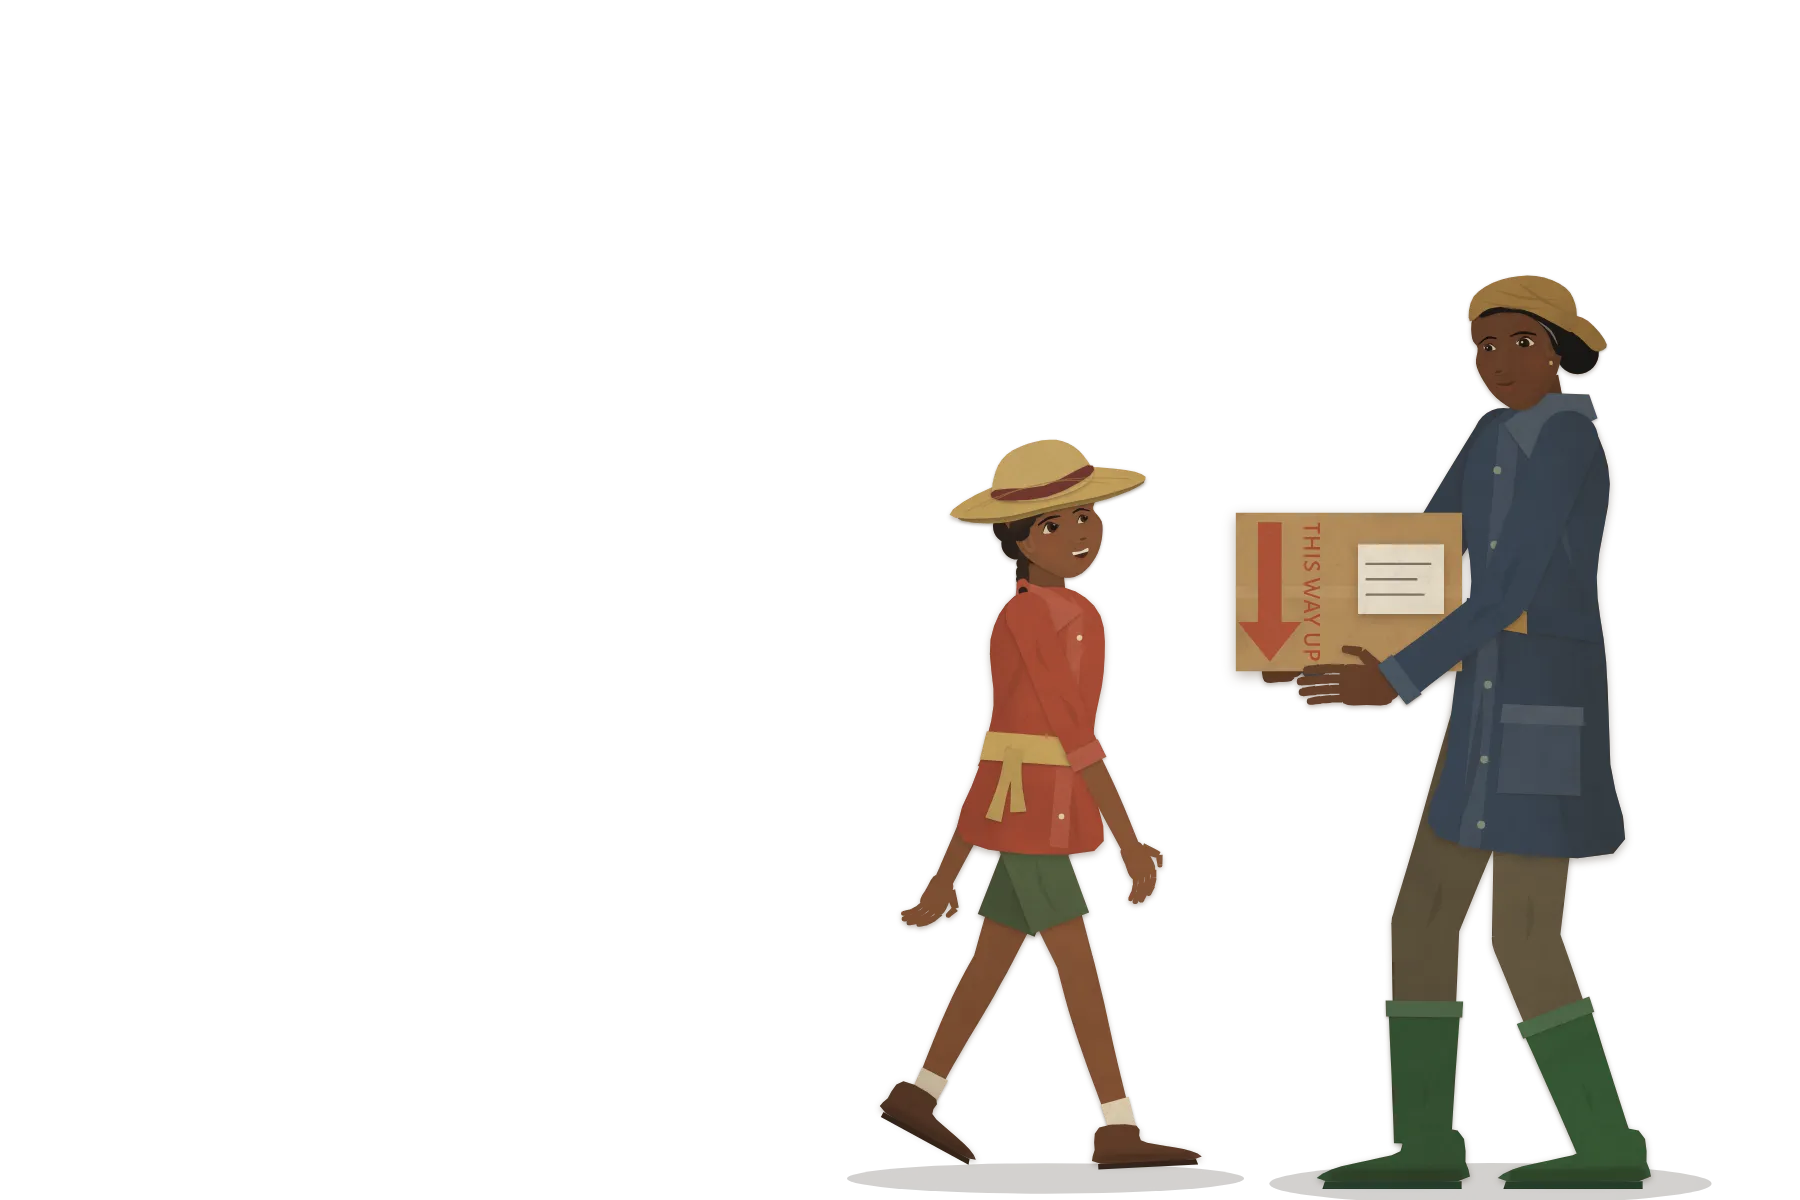
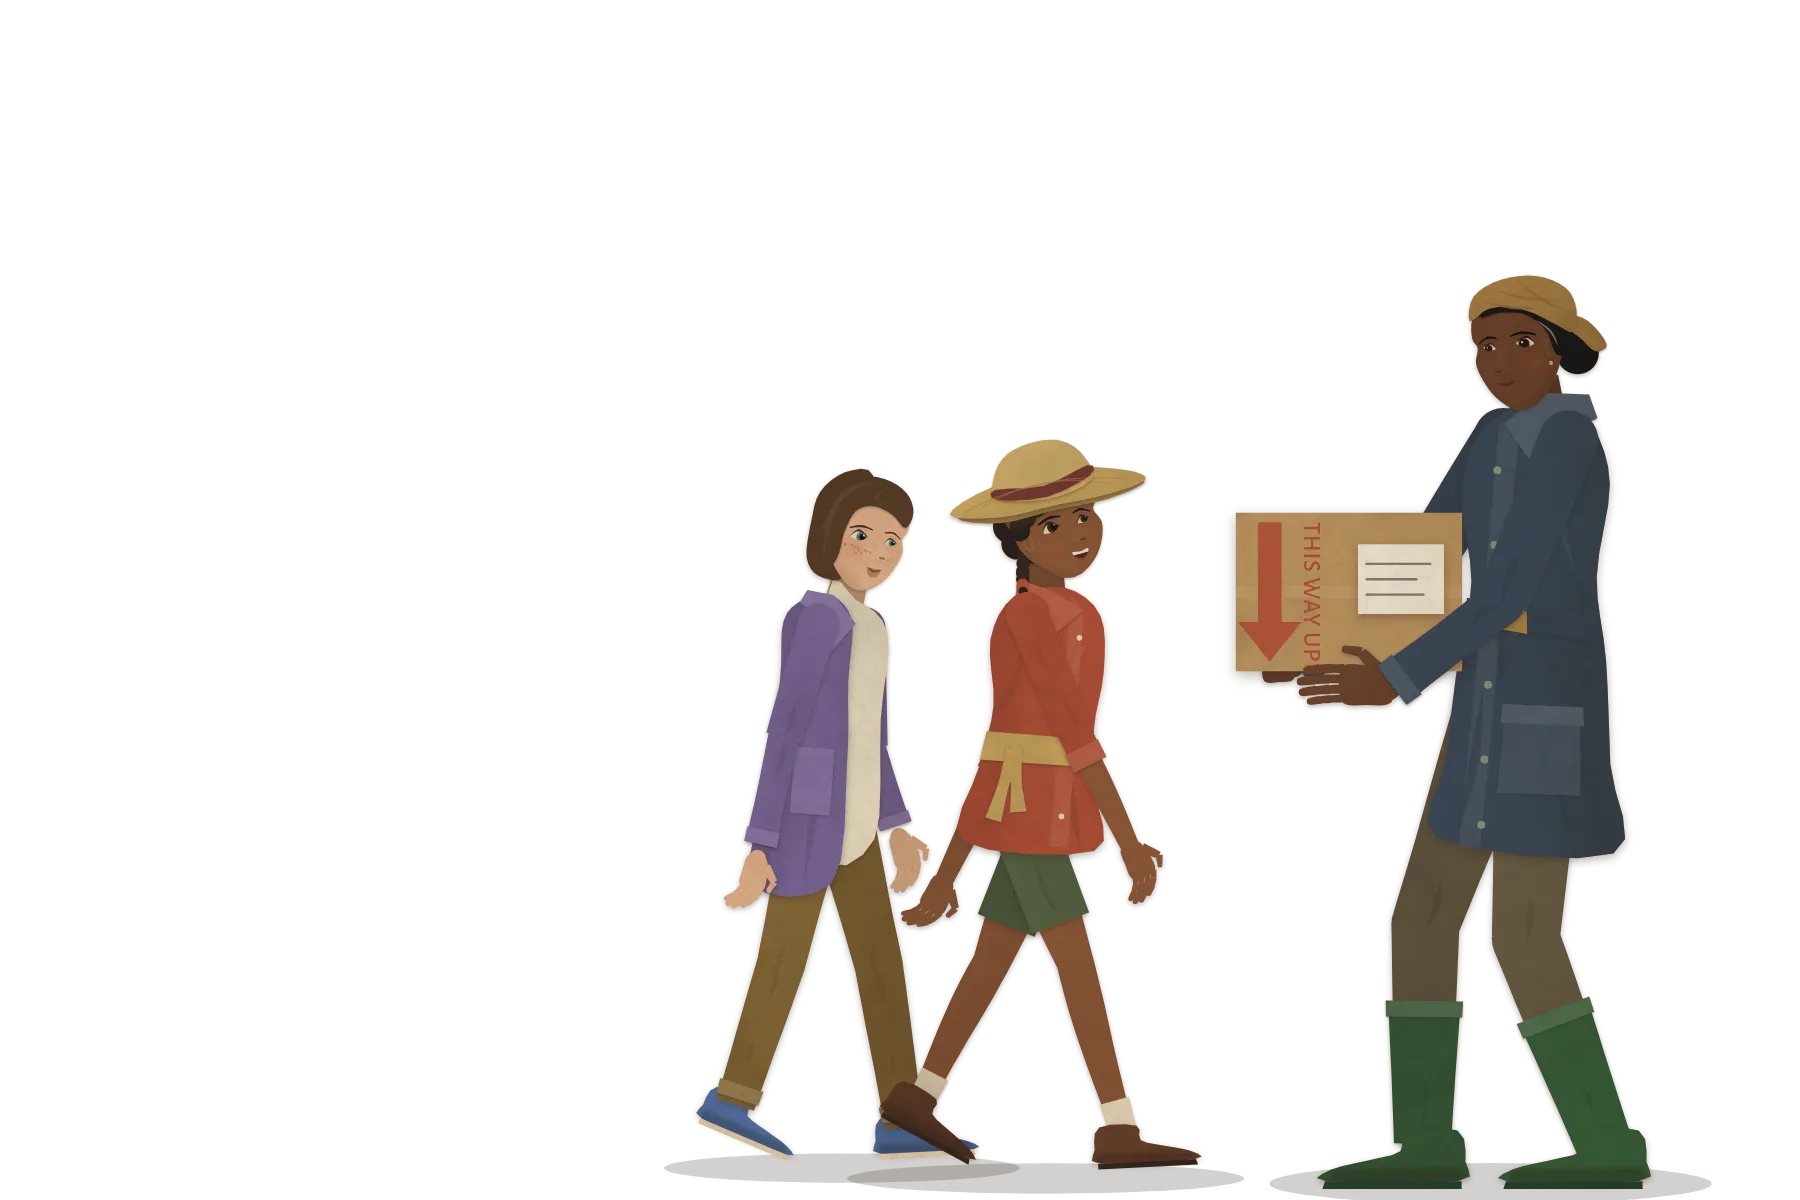
Story book chapter 1: Tam joins (#35)
Craig's call 2026-11-11: Tam is in chapter 1. She walks in with Wren
(spread 1), counts the first CLONK (spread 6, so the refrain "That's
one" is hers), and stands half hidden behind Wren when Nod says
"Three" (spread 8): "Tam had said it first." Wren's log adds "Told:
Tam said three. Two and one is three." This plants her arc in the
outline, from unheard to heard.

Pictures for spreads 1, 6 and 8 re-rendered with Tam from the shared
figure kit; the other seven spreads are unchanged. Alt text names her.
All ten predeploy gates pass.

Claude-Session: https://claude.ai/code/session_01LkzLwb6XNBDGeRifrsfcpW

Changed region(s): [[0.3733, 0.37, 0.56, 0.9867]]

diff --git a/public/stories/the-duck-who-stayed/3d/index.html b/public/stories/the-duck-who-stayed/3d/index.html
@@ -33,11 +33,12 @@
 <article class="pb-spread lesson" id="lesson-1" data-art="/stories/the-duck-who-stayed/art/spreads/s01" data-sheets="[{&quot;name&quot;:&quot;table&quot;,&quot;foot&quot;:0.939,&quot;rise&quot;:11},{&quot;name&quot;:&quot;people&quot;,&quot;foot&quot;:1.0,&quot;rise&quot;:16}]">
 <h2 class="pb-title">The box</h2>
 <div class="pb-canvas lesson-page">
-<img class="pb-art" src="/stories/the-duck-who-stayed/art/spreads/s01.webp" alt="A farmhouse kitchen. Aunt Mo walks in at the back door, carrying a cardboard box with a large red arrow on it pointing at the floor. Wren in her straw hat trots alongside with her nose level with the label. On the table at the left, beside a bowl of apples, sits Nod, a pale robot with one head, two thin antennas, no hands and no wheels, its head tipped toward the box." width="1800" height="1200" decoding="async" loading="lazy">
+<img class="pb-art" src="/stories/the-duck-who-stayed/art/spreads/s01.webp" alt="A farmhouse kitchen. Aunt Mo walks in at the back door, carrying a cardboard box with a large red arrow on it pointing at the floor. Wren in her straw hat trots alongside with her nose level with the label, and her friend Tam, in a plum shirt, walks a step behind her. On the table at the left, beside a bowl of apples, sits Nod, a pale robot with one head, two thin antennas, no hands and no wheels, its head tipped toward the box." width="1800" height="1200" decoding="async" loading="lazy">
 <div class="pb-words">
 <div class="pb-z pb-tight" style="--x:4;--y:4;--w:42"><p>On the last hot day of summer, the truck came home with a box.</p><p>A box! With a name on it!</p><p>The name was not Wren. It was Aunt Mo. Wren felt this was a mistake.</p></div>
+<div class="pb-z" style="--x:52;--y:6;--w:15"><p>Tam from the next farm came too. Tam counted things.</p></div>
 <div class="pb-z" style="--x:4;--y:32;--w:24"><p>Nod was the robot on the table: one head, two antennas, no hands. It nodded at everything.</p></div>
-<div class="pb-z" style="--x:38.5;--y:31;--w:10.5"><p>“That box,” said Nod, “is a ham.”</p></div>
+<div class="pb-z" style="--x:36.5;--y:27;--w:10.5"><p>“That box,” said Nod, “is a ham.”</p></div>
 </div>
 </div>
 </article>
@@ -108,11 +109,11 @@
 <article class="pb-spread lesson" id="lesson-6" data-art="/stories/the-duck-who-stayed/art/spreads/s06" data-sheets="[{&quot;name&quot;:&quot;table&quot;,&quot;foot&quot;:0.963,&quot;rise&quot;:11},{&quot;name&quot;:&quot;letters&quot;,&quot;foot&quot;:0.576,&quot;rise&quot;:6},{&quot;name&quot;:&quot;chair&quot;,&quot;foot&quot;:0.986,&quot;rise&quot;:16},{&quot;name&quot;:&quot;near&quot;,&quot;foot&quot;:1.0,&quot;rise&quot;:8}]">
 <h2 class="pb-title">CLONK</h2>
 <div class="pb-canvas lesson-page">
-<img class="pb-art" src="/stories/the-duck-who-stayed/art/spreads/s06.webp" alt="Close and enormous. The word CLONK is cut from red paper letters, the biggest thing in the book, filling the left page. A chair leg stands in the middle of the right page and Pip lies at its foot, legs in the air, with bits of paper flying up. Wren&#x27;s hands are at her mouth at the left edge, and Aunt Mo&#x27;s raised finger comes in from the top. Nod&#x27;s two antennas show over the table&#x27;s edge at the top left." width="1800" height="1200" decoding="async" loading="lazy">
+<img class="pb-art" src="/stories/the-duck-who-stayed/art/spreads/s06.webp" alt="Close and enormous. The word CLONK is cut from red paper letters, the biggest thing in the book, filling the left page. A chair leg stands in the middle of the right page and Pip lies at its foot, legs in the air, with bits of paper flying up. Wren&#x27;s hands are at her mouth at the left edge, Tam watches from the right edge with her hands together, and Aunt Mo&#x27;s raised finger comes in from the top. Nod&#x27;s two antennas show over the table&#x27;s edge at the top left." width="1800" height="1200" decoding="async" loading="lazy">
 <div class="pb-words">
 <p class="pb-said">CLONK!</p>
 <div class="pb-z pb-tight" style="--x:21.5;--y:56;--w:27"><p>Over went Pip, flat on its side, with both legs still going.</p><p>Up on the table, Nod could not see the floor. It nodded anyway.</p></div>
-<div class="pb-z pb-chant" style="--x:3;--y:17;--w:20"><p>“That’s one.”</p></div>
+<div class="pb-z pb-chant" style="--x:3;--y:17;--w:20"><p>“That’s one,” said Tam.</p></div>
 <div class="pb-z pb-tight" style="--x:21.5;--y:83;--w:27"><p>“It’s broken!” said Wren.</p><p>Aunt Mo held up one finger.</p></div>
 <div class="pb-z pb-chant" style="--x:84.5;--y:41;--w:12"><p>“Wait.”</p></div>
 </div>
@@ -153,7 +154,7 @@
 <article class="pb-spread lesson" id="lesson-8" data-art="/stories/the-duck-who-stayed/art/spreads/s08" data-sheets="[{&quot;name&quot;:&quot;table&quot;,&quot;foot&quot;:0.91,&quot;rise&quot;:11},{&quot;name&quot;:&quot;people&quot;,&quot;foot&quot;:0.979,&quot;rise&quot;:16},{&quot;name&quot;:&quot;letters&quot;,&quot;foot&quot;:0.95,&quot;rise&quot;:6}]">
 <h2 class="pb-title">We can know that</h2>
 <div class="pb-canvas lesson-page">
-<img class="pb-art" src="/stories/the-duck-who-stayed/art/spreads/s08.webp" alt="Wren and Aunt Mo face each other. Pip is tucked under Aunt Mo&#x27;s arm with its legs out, and she holds the manual open with a thumb. Wren points toward the chair, which stands alone on the right, in nobody&#x27;s way. Nod on the table between them has its chin down. Wheeeeak! climbs in a curve from the floor up to Pip." width="1800" height="1200" decoding="async" loading="lazy">
+<img class="pb-art" src="/stories/the-duck-who-stayed/art/spreads/s08.webp" alt="Wren and Aunt Mo face each other. Tam stands just behind Wren at the left edge, her mouth open, half hidden. Pip is tucked under Aunt Mo&#x27;s arm with its legs out, and she holds the manual open with a thumb. Wren points toward the chair, which stands alone on the right, in nobody&#x27;s way. Nod on the table between them has its chin down. Wheeeeak! climbs in a curve from the floor up to Pip." width="1800" height="1200" decoding="async" loading="lazy">
 <div class="pb-words">
 <div class="pb-z" style="--x:3;--y:3;--w:24"><p>Aunt Mo scooped up Pip.</p></div>
 <p class="pb-said">Wheeeeak!</p>
@@ -163,7 +164,8 @@
 <div class="pb-z" style="--x:68;--y:13.5;--w:30"><p>Page twelve of the manual said: Pip does not look. Pip just goes.</p></div>
 <div class="pb-z" style="--x:52;--y:26;--w:14.5"><p>“It went CLONK three times!”</p></div>
 <div class="pb-z" style="--x:69;--y:29;--w:28"><p>“Yes. We can know that.”</p></div>
-<div class="pb-z" style="--x:70.5;--y:42;--w:20"><p>“Three,” said Nod.</p></div>
+<div class="pb-z" style="--x:70.5;--y:37.5;--w:20"><p>“Three,” said Nod.</p></div>
+<div class="pb-z" style="--x:70.5;--y:42.5;--w:12.5"><p>Tam had said it first.</p></div>
 </div>
 </div>
 </article>
@@ -186,7 +188,7 @@
 <div class="pb-canvas lesson-page">
 <img class="pb-art" src="/stories/the-duck-who-stayed/art/spreads/s10.webp" alt="Wren writes at the kitchen table, Aunt Mo close beside her with a pen in her hand. Nod leans over the book at her shoulder with its head tipped. Under the table one chair leg wears a bandage. Pip stands charging on the shelf, showing above the corner of a large sheet from the green book, which lies over the right page." width="1800" height="1200" decoding="async" loading="lazy">
 <div class="pb-words">
-<div class="pb-z pb-log" style="--x:57.5;--y:29.4;--w:38"><p>WREN’S LOG. Machine: Pip. Day 1.</p><p>Look: Pip walked into the chair leg. Two times.</p><p>Tried: Moved the chair. Pip walked into another leg. One time.</p><p>Heard: ACK! ACK! ACK! before every CLONK.</p><p>Nod says that means all is well. I did not write that down.</p><p>Chair leg: fine. I checked.</p><p>Tomorrow: hens. They have not been told.</p><p><span class="pb-pen">Not yet.</span></p></div>
+<div class="pb-z pb-log" style="--x:57.5;--y:29.4;--w:38"><p>WREN’S LOG. Machine: Pip. Day 1.</p><p>Look: Pip walked into the chair leg. Two times.</p><p>Tried: Moved the chair. Pip walked into another leg. One time.</p><p>Heard: ACK! ACK! ACK! before every CLONK.</p><p>Told: Tam said three. Two and one is three.</p><p>Nod says that means all is well. I did not write that down.</p><p>Chair leg: fine. I checked.</p><p>Tomorrow: hens. They have not been told.</p><p><span class="pb-pen">Not yet.</span></p></div>
 </div>
 </div>
 </article>

diff --git a/public/stories/the-duck-who-stayed/picture/index.html b/public/stories/the-duck-who-stayed/picture/index.html
@@ -33,11 +33,12 @@
 <article class="pb-spread" id="spread-1">
 <h2 class="pb-title">The box</h2>
 <div class="pb-canvas">
-<img class="pb-art" src="/stories/the-duck-who-stayed/art/spreads/s01.webp" alt="A farmhouse kitchen. Aunt Mo walks in at the back door, carrying a cardboard box with a large red arrow on it pointing at the floor. Wren in her straw hat trots alongside with her nose level with the label. On the table at the left, beside a bowl of apples, sits Nod, a pale robot with one head, two thin antennas, no hands and no wheels, its head tipped toward the box." width="1800" height="1200" decoding="async" loading="lazy">
+<img class="pb-art" src="/stories/the-duck-who-stayed/art/spreads/s01.webp" alt="A farmhouse kitchen. Aunt Mo walks in at the back door, carrying a cardboard box with a large red arrow on it pointing at the floor. Wren in her straw hat trots alongside with her nose level with the label, and her friend Tam, in a plum shirt, walks a step behind her. On the table at the left, beside a bowl of apples, sits Nod, a pale robot with one head, two thin antennas, no hands and no wheels, its head tipped toward the box." width="1800" height="1200" decoding="async" loading="lazy">
 <div class="pb-words">
 <div class="pb-z pb-tight" style="--x:4;--y:4;--w:42"><p>On the last hot day of summer, the truck came home with a box.</p><p>A box! With a name on it!</p><p>The name was not Wren. It was Aunt Mo. Wren felt this was a mistake.</p></div>
+<div class="pb-z" style="--x:52;--y:6;--w:15"><p>Tam from the next farm came too. Tam counted things.</p></div>
 <div class="pb-z" style="--x:4;--y:32;--w:24"><p>Nod was the robot on the table: one head, two antennas, no hands. It nodded at everything.</p></div>
-<div class="pb-z" style="--x:38.5;--y:31;--w:10.5"><p>“That box,” said Nod, “is a ham.”</p></div>
+<div class="pb-z" style="--x:36.5;--y:27;--w:10.5"><p>“That box,” said Nod, “is a ham.”</p></div>
 </div>
 </div>
 </article>
@@ -108,11 +109,11 @@
 <article class="pb-spread" id="spread-6">
 <h2 class="pb-title">CLONK</h2>
 <div class="pb-canvas">
-<img class="pb-art" src="/stories/the-duck-who-stayed/art/spreads/s06.webp" alt="Close and enormous. The word CLONK is cut from red paper letters, the biggest thing in the book, filling the left page. A chair leg stands in the middle of the right page and Pip lies at its foot, legs in the air, with bits of paper flying up. Wren&#x27;s hands are at her mouth at the left edge, and Aunt Mo&#x27;s raised finger comes in from the top. Nod&#x27;s two antennas show over the table&#x27;s edge at the top left." width="1800" height="1200" decoding="async" loading="lazy">
+<img class="pb-art" src="/stories/the-duck-who-stayed/art/spreads/s06.webp" alt="Close and enormous. The word CLONK is cut from red paper letters, the biggest thing in the book, filling the left page. A chair leg stands in the middle of the right page and Pip lies at its foot, legs in the air, with bits of paper flying up. Wren&#x27;s hands are at her mouth at the left edge, Tam watches from the right edge with her hands together, and Aunt Mo&#x27;s raised finger comes in from the top. Nod&#x27;s two antennas show over the table&#x27;s edge at the top left." width="1800" height="1200" decoding="async" loading="lazy">
 <div class="pb-words">
 <p class="pb-said">CLONK!</p>
 <div class="pb-z pb-tight" style="--x:21.5;--y:56;--w:27"><p>Over went Pip, flat on its side, with both legs still going.</p><p>Up on the table, Nod could not see the floor. It nodded anyway.</p></div>
-<div class="pb-z pb-chant" style="--x:3;--y:17;--w:20"><p>“That’s one.”</p></div>
+<div class="pb-z pb-chant" style="--x:3;--y:17;--w:20"><p>“That’s one,” said Tam.</p></div>
 <div class="pb-z pb-tight" style="--x:21.5;--y:83;--w:27"><p>“It’s broken!” said Wren.</p><p>Aunt Mo held up one finger.</p></div>
 <div class="pb-z pb-chant" style="--x:84.5;--y:41;--w:12"><p>“Wait.”</p></div>
 </div>
@@ -153,7 +154,7 @@
 <article class="pb-spread" id="spread-8">
 <h2 class="pb-title">We can know that</h2>
 <div class="pb-canvas">
-<img class="pb-art" src="/stories/the-duck-who-stayed/art/spreads/s08.webp" alt="Wren and Aunt Mo face each other. Pip is tucked under Aunt Mo&#x27;s arm with its legs out, and she holds the manual open with a thumb. Wren points toward the chair, which stands alone on the right, in nobody&#x27;s way. Nod on the table between them has its chin down. Wheeeeak! climbs in a curve from the floor up to Pip." width="1800" height="1200" decoding="async" loading="lazy">
+<img class="pb-art" src="/stories/the-duck-who-stayed/art/spreads/s08.webp" alt="Wren and Aunt Mo face each other. Tam stands just behind Wren at the left edge, her mouth open, half hidden. Pip is tucked under Aunt Mo&#x27;s arm with its legs out, and she holds the manual open with a thumb. Wren points toward the chair, which stands alone on the right, in nobody&#x27;s way. Nod on the table between them has its chin down. Wheeeeak! climbs in a curve from the floor up to Pip." width="1800" height="1200" decoding="async" loading="lazy">
 <div class="pb-words">
 <div class="pb-z" style="--x:3;--y:3;--w:24"><p>Aunt Mo scooped up Pip.</p></div>
 <p class="pb-said">Wheeeeak!</p>
@@ -163,7 +164,8 @@
 <div class="pb-z" style="--x:68;--y:13.5;--w:30"><p>Page twelve of the manual said: Pip does not look. Pip just goes.</p></div>
 <div class="pb-z" style="--x:52;--y:26;--w:14.5"><p>“It went CLONK three times!”</p></div>
 <div class="pb-z" style="--x:69;--y:29;--w:28"><p>“Yes. We can know that.”</p></div>
-<div class="pb-z" style="--x:70.5;--y:42;--w:20"><p>“Three,” said Nod.</p></div>
+<div class="pb-z" style="--x:70.5;--y:37.5;--w:20"><p>“Three,” said Nod.</p></div>
+<div class="pb-z" style="--x:70.5;--y:42.5;--w:12.5"><p>Tam had said it first.</p></div>
 </div>
 </div>
 </article>
@@ -186,7 +188,7 @@
 <div class="pb-canvas">
 <img class="pb-art" src="/stories/the-duck-who-stayed/art/spreads/s10.webp" alt="Wren writes at the kitchen table, Aunt Mo close beside her with a pen in her hand. Nod leans over the book at her shoulder with its head tipped. Under the table one chair leg wears a bandage. Pip stands charging on the shelf, showing above the corner of a large sheet from the green book, which lies over the right page." width="1800" height="1200" decoding="async" loading="lazy">
 <div class="pb-words">
-<div class="pb-z pb-log" style="--x:57.5;--y:29.4;--w:38"><p>WREN’S LOG. Machine: Pip. Day 1.</p><p>Look: Pip walked into the chair leg. Two times.</p><p>Tried: Moved the chair. Pip walked into another leg. One time.</p><p>Heard: ACK! ACK! ACK! before every CLONK.</p><p>Nod says that means all is well. I did not write that down.</p><p>Chair leg: fine. I checked.</p><p>Tomorrow: hens. They have not been told.</p><p><span class="pb-pen">Not yet.</span></p></div>
+<div class="pb-z pb-log" style="--x:57.5;--y:29.4;--w:38"><p>WREN’S LOG. Machine: Pip. Day 1.</p><p>Look: Pip walked into the chair leg. Two times.</p><p>Tried: Moved the chair. Pip walked into another leg. One time.</p><p>Heard: ACK! ACK! ACK! before every CLONK.</p><p>Told: Tam said three. Two and one is three.</p><p>Nod says that means all is well. I did not write that down.</p><p>Chair leg: fine. I checked.</p><p>Tomorrow: hens. They have not been told.</p><p><span class="pb-pen">Not yet.</span></p></div>
 </div>
 </div>
 </article>
